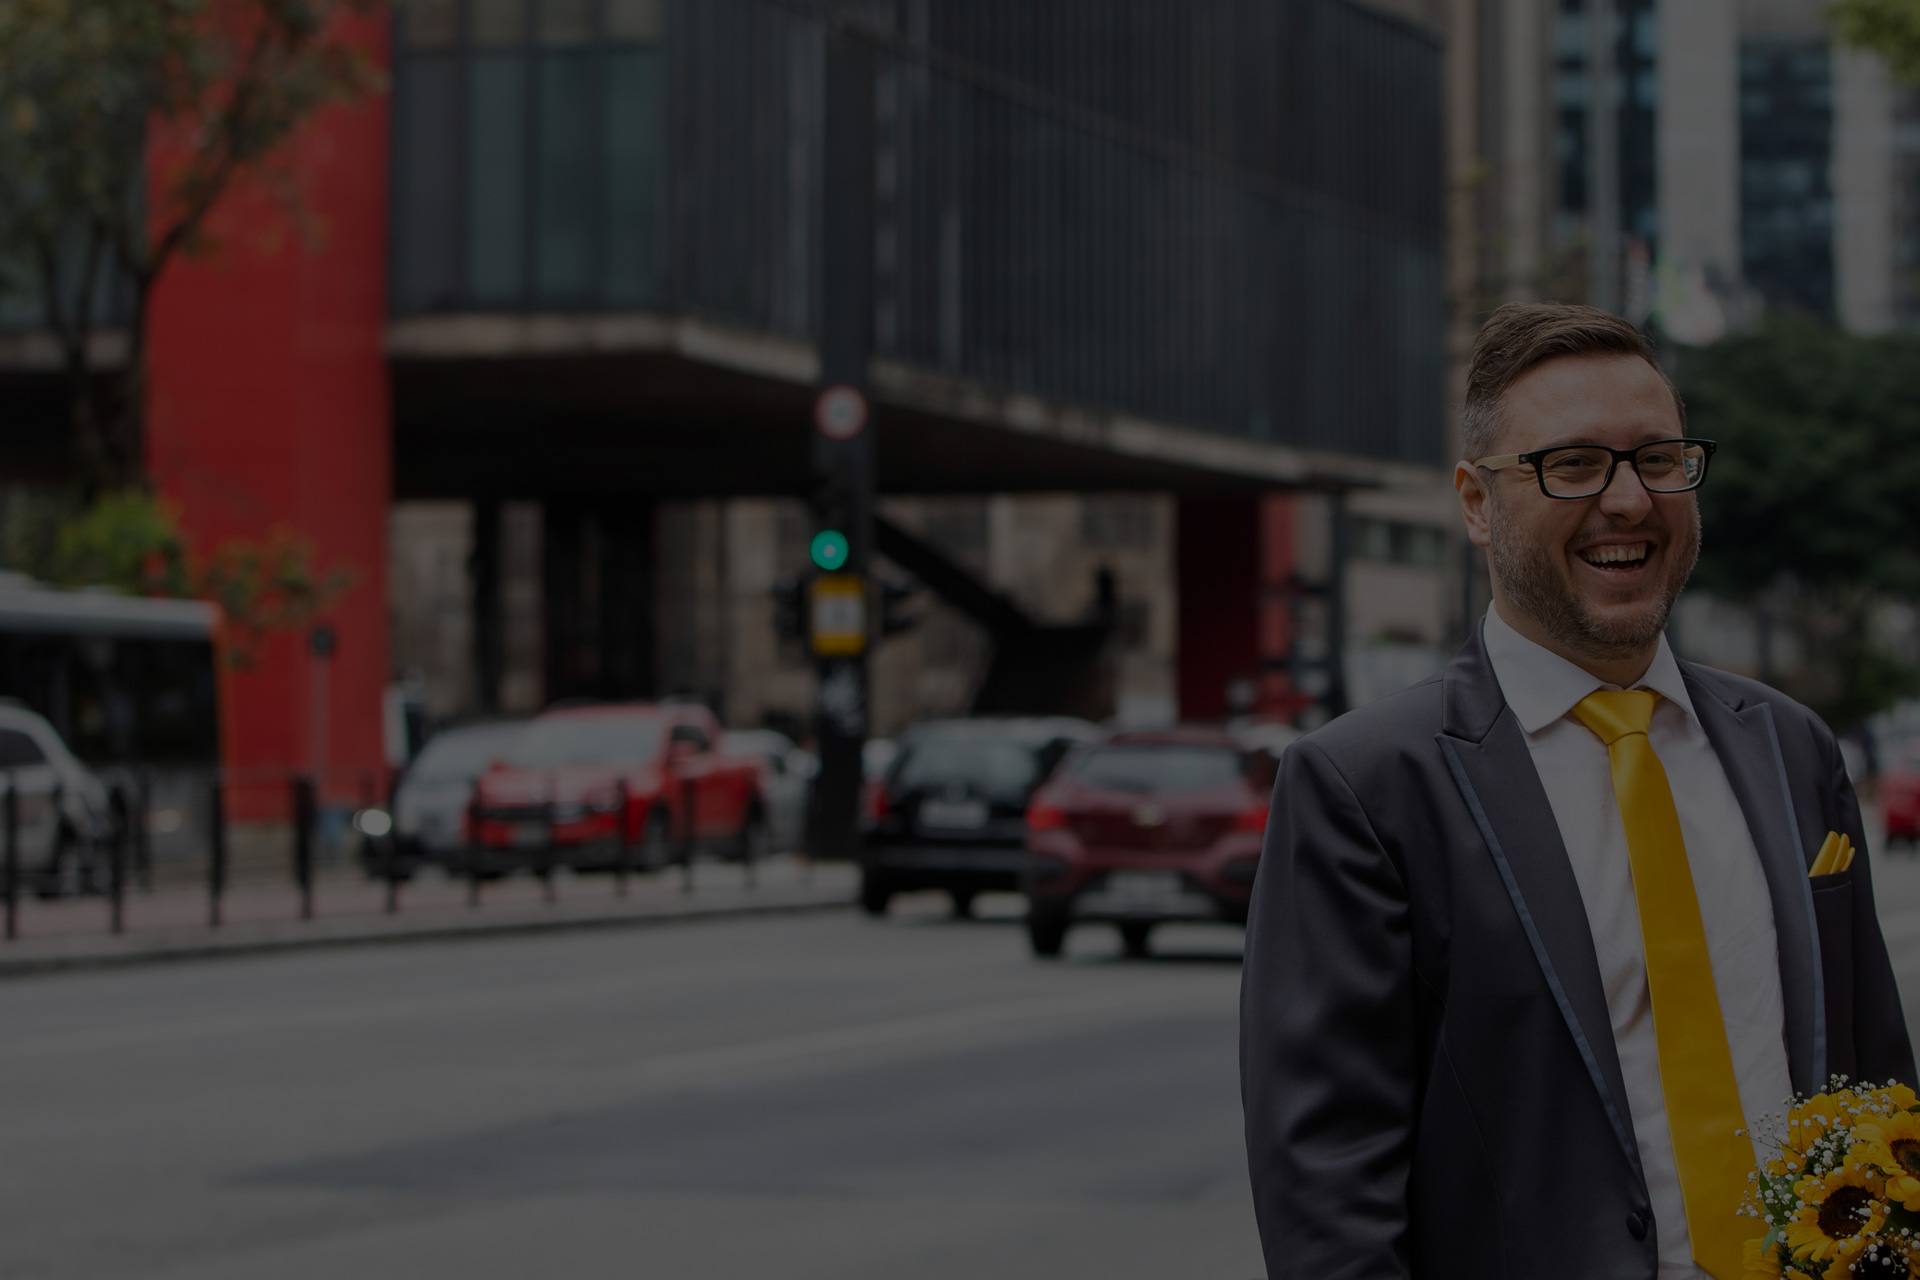
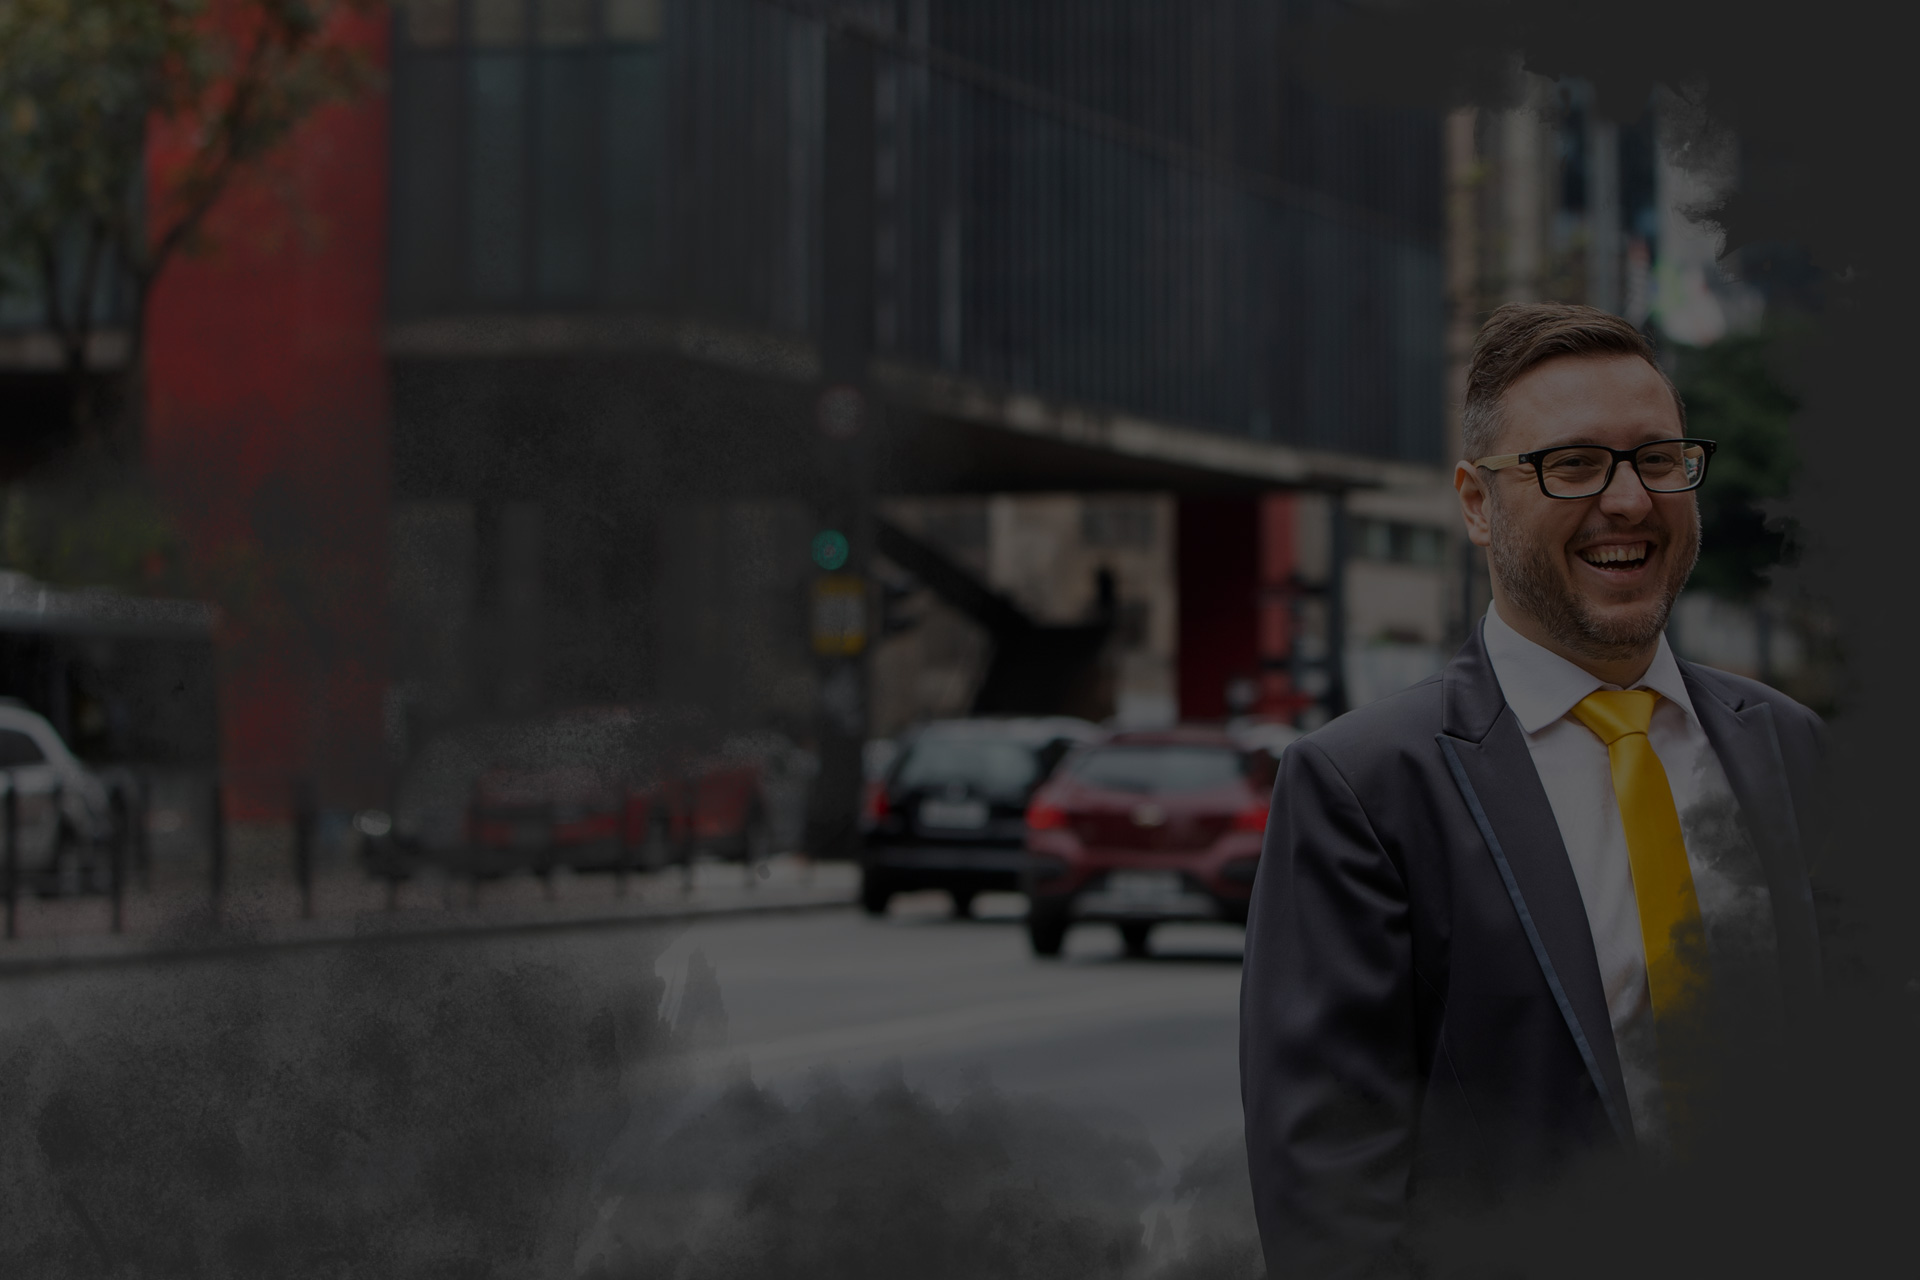
comita

diff --git a/eduardolevi/css/edu.css b/eduardolevi/css/edu.css
@@ -1,1 +1,1 @@
-@media only screen and (orientation:portrait){body{height:100vw;-webkit-transform:rotate(90deg);-ms-transform:rotate(90deg);transform:rotate(90deg)}}html{background-color:#222;scroll-behavior:smooth;-webkit-overflow-scrolling:touch}a,button{cursor:pointer}body{background-color:#222;height:100vw;overflow-x:visible;overflow-y:hidden;display:-webkit-box;display:-ms-flexbox;display:flex;-webkit-box-align:left;-ms-flex-align:left;align-items:left;margin:0;padding:0}.nav-bottom{width:100%;position:fixed;bottom:0;z-index:9999;display:-webkit-box;display:-ms-flexbox;display:flex;-webkit-box-align:center;-ms-flex-align:center;align-items:center;-webkit-box-pack:center;-ms-flex-pack:center;justify-content:center;height:50px}.nav-bottom button{border:1px solid transparent;background-color:transparent;font-weight:bolder;text-transform:uppercase;color:white;-webkit-transition:all ease-in-out 0.3s;-o-transition:all ease-in-out 0.3s;transition:all ease-in-out 0.3s}.nav-bottom button.active,.nav-bottom button:focus,.nav-bottom button:hover{outline:unset;-webkit-transition:all ease-in-out 0.3s;-o-transition:all ease-in-out 0.3s;transition:all ease-in-out 0.3s}.nav-bottom button#btHome.active,.nav-bottom button#btHome:focus,.nav-bottom button#btHome:hover{border:1px solid white;color:white}.nav-bottom button#btCareer.active,.nav-bottom button#btCareer:focus,.nav-bottom button#btCareer:hover{border:1px solid gold;color:gold}.nav-bottom button#btWorks.active,.nav-bottom button#btWorks:focus,.nav-bottom button#btWorks:hover{border:1px solid hotpink;color:hotpink}.nav-bottom button#btMe.active,.nav-bottom button#btMe:focus,.nav-bottom button#btMe:hover{border:1px solid cyan;color:cyan}section{min-width:auto;max-width:auto;height:100vh;max-height:100%;float:left;background-color:#222}section .container{display:-webkit-box;display:-ms-flexbox;display:flex;-webkit-box-orient:horizontal;-webkit-box-direction:normal;-ms-flex-direction:row;flex-direction:row;-ms-flex-wrap:nowrap;flex-wrap:nowrap;width:100%;padding:1.4em;gap:1em}section .container .col{-ms-flex-wrap:nowrap;flex-wrap:nowrap;-webkit-box-pack:justify;-ms-flex-pack:justify;justify-content:space-between;display:-webkit-box;display:-ms-flexbox;display:flex;-webkit-box-orient:vertical;-webkit-box-direction:normal;-ms-flex-direction:column;flex-direction:column;-ms-flex-preferred-size:90%;flex-basis:90%;-webkit-box-flex:1;-ms-flex:1;flex:1;width:45ch}section .container.titulo{height:140px}section h2{font-size:82px;margin:20px 0px 60px;position:relative}section h3{margin:0 0 15px}section p{font-size:1em;margin:0}#home{color:white;min-width:100vw}#home video{position:absolute;top:0;left:0;min-height:100%;min-width:100%;height:100%;width:100%}#home .moving-mouse-holder{margin:auto;position:fixed;bottom:20px;right:5px;width:170px}#home .moving-mouse-holder .mouse{width:26px;height:36px;position:relative;right:0;border-radius:18px;border:2px solid #444}#home .moving-mouse-holder .mouse-button{background-color:#444;width:4px;height:6px;border-radius:2px;position:absolute;top:7px;left:50%;margin:0 0 0 -2px;-webkit-animation:mouse-scroll 1s infinite alternate;animation:mouse-scroll 1s infinite alternate}#home .moving-mouse-holder .text{margin-top:-30px;margin-left:40px;color:#444;font-size:12px;line-height:1em}@-webkit-keyframes mouse-scroll{to{-webkit-transform:translate(0, 3px) scale(1, 0.4);transform:translate(0, 3px) scale(1, 0.4)}}@keyframes mouse-scroll{to{-webkit-transform:translate(0, 3px) scale(1, 0.4);transform:translate(0, 3px) scale(1, 0.4)}}#content1,#content1b{color:gold}#content2{color:hotpink}#content3{color:cyan}::-webkit-scrollbar{height:4px}::-webkit-scrollbar-track{background:#333}::-webkit-scrollbar-thumb{background:#444}::-webkit-scrollbar-thumb:hover{background:#555}#myVideo{position:absolute;bottom:0;top:0;right:0;width:100%;height:100%;background-size:100% 100%;background-color:black;background-image:;background-position:center center;background-size:contain;-o-object-fit:cover;object-fit:cover}
+@media only screen and (orientation:portrait){body{height:100vw;-webkit-transform:rotate(90deg);-ms-transform:rotate(90deg);transform:rotate(90deg)}}@font-face{font-family:'Comfortaa';font-style:normal;font-weight:300;font-display:swap;src:url(https://fonts.gstatic.com/s/comfortaa/v30/1Pt_g8LJRfWJmhDAuUsSQamb1W0lwk4S4TbMPrQ.ttf) format('truetype')}@font-face{font-family:'Comfortaa';font-style:normal;font-weight:400;font-display:swap;src:url(https://fonts.gstatic.com/s/comfortaa/v30/1Pt_g8LJRfWJmhDAuUsSQamb1W0lwk4S4WjMPrQ.ttf) format('truetype')}@font-face{font-family:'Comfortaa';font-style:normal;font-weight:500;font-display:swap;src:url(https://fonts.gstatic.com/s/comfortaa/v30/1Pt_g8LJRfWJmhDAuUsSQamb1W0lwk4S4VrMPrQ.ttf) format('truetype')}@font-face{font-family:'Comfortaa';font-style:normal;font-weight:600;font-display:swap;src:url(https://fonts.gstatic.com/s/comfortaa/v30/1Pt_g8LJRfWJmhDAuUsSQamb1W0lwk4S4bbLPrQ.ttf) format('truetype')}@font-face{font-family:'Comfortaa';font-style:normal;font-weight:700;font-display:swap;src:url(https://fonts.gstatic.com/s/comfortaa/v30/1Pt_g8LJRfWJmhDAuUsSQamb1W0lwk4S4Y_LPrQ.ttf) format('truetype')}html{background-color:#222;scroll-behavior:smooth;-webkit-overflow-scrolling:touch;font-family:'Comfortaa', cursive}a,button{cursor:pointer}body{background-color:#222;height:100vw;overflow-x:visible;overflow-y:hidden;display:-webkit-box;display:-ms-flexbox;display:flex;-webkit-box-align:left;-ms-flex-align:left;align-items:left;margin:0;padding:0;font-family:'Comfortaa', cursive}.nav-bottom{width:100%;position:fixed;bottom:0;z-index:9999;display:-webkit-box;display:-ms-flexbox;display:flex;-webkit-box-align:center;-ms-flex-align:center;align-items:center;-webkit-box-pack:center;-ms-flex-pack:center;justify-content:center;height:50px}.nav-bottom button{border:1px solid transparent;background-color:transparent;font-weight:bolder;text-transform:uppercase;color:white;-webkit-transition:all ease-in-out 0.3s;-o-transition:all ease-in-out 0.3s;transition:all ease-in-out 0.3s}.nav-bottom button.active,.nav-bottom button:focus,.nav-bottom button:hover{outline:unset;-webkit-transition:all ease-in-out 0.3s;-o-transition:all ease-in-out 0.3s;transition:all ease-in-out 0.3s}.nav-bottom button#btCareer.active,.nav-bottom button#btCareer:focus,.nav-bottom button#btCareer:hover,.nav-bottom button#btHome.active,.nav-bottom button#btHome:focus,.nav-bottom button#btHome:hover,.nav-bottom button#btMe.active,.nav-bottom button#btMe:focus,.nav-bottom button#btMe:hover,.nav-bottom button#btWorks.active,.nav-bottom button#btWorks:focus,.nav-bottom button#btWorks:hover{color:#f1c600;background-color:#434343}section{min-width:auto;max-width:auto;height:100vh;max-height:100%;float:left;background-color:#222}section .container{display:-webkit-box;display:-ms-flexbox;display:flex;-webkit-box-orient:horizontal;-webkit-box-direction:normal;-ms-flex-direction:row;flex-direction:row;-ms-flex-wrap:nowrap;flex-wrap:nowrap;width:100%;padding:1.4em;gap:1em}section .container .col{-ms-flex-wrap:nowrap;flex-wrap:nowrap;-webkit-box-pack:justify;-ms-flex-pack:justify;justify-content:space-between;display:-webkit-box;display:-ms-flexbox;display:flex;-webkit-box-orient:vertical;-webkit-box-direction:normal;-ms-flex-direction:column;flex-direction:column;-ms-flex-preferred-size:90%;flex-basis:90%;-webkit-box-flex:1;-ms-flex:1;flex:1;width:45ch}section .container.titulo{height:140px}section h2{font-size:82px;margin:20px 0px 60px;position:relative}section h3{margin:0 0 15px}section p{font-size:1em;margin:0}#home{background:url('../imgs/bg-home.jpg') top / cover no-repeat;color:#f1c600;min-width:100vw}#home video{position:absolute;top:0;left:0;min-height:100%;min-width:100%}#home .moving-mouse-holder{margin:auto;position:fixed;bottom:20px;right:5px;width:170px}#home .moving-mouse-holder .mouse{width:26px;height:36px;position:relative;right:0;border-radius:18px;border:2px solid white}#home .moving-mouse-holder .mouse-button{background-color:white;width:4px;height:6px;border-radius:2px;position:absolute;top:7px;left:50%;margin:0 0 0 -2px;-webkit-animation:mouse-scroll 1s infinite alternate;animation:mouse-scroll 1s infinite alternate}#home .moving-mouse-holder .text{margin-top:-30px;margin-left:40px;font-size:12px;line-height:1em;color:white}@-webkit-keyframes mouse-scroll{to{-webkit-transform:translate(0, 3px) scale(1, 0.4);transform:translate(0, 3px) scale(1, 0.4)}}@keyframes mouse-scroll{to{-webkit-transform:translate(0, 3px) scale(1, 0.4);transform:translate(0, 3px) scale(1, 0.4)}}#content1,#content1b{background:url('../imgs/bg-2.jpg') top / cover no-repeat;color:#f1c600}::-webkit-scrollbar{height:4px}::-webkit-scrollbar-track{background:#333}::-webkit-scrollbar-thumb{background:#444}::-webkit-scrollbar-thumb:hover{background:#555}#myVideo{position:absolute;bottom:0;top:0;right:0;width:100%;height:100%;background-size:100% 100%;background-color:black;background-position:center center;background-size:contain;-o-object-fit:cover;object-fit:cover}

diff --git a/eduardolevi/index.html b/eduardolevi/index.html
@@ -25,22 +25,22 @@
 			<!-- <video id="Video" loop muted autoplay>
 				<source src="imgs/flowers.mp4" type="video/mp4">
 				<source src="imgs/flowers.webm" type="video/webm">
-			</video>	-->
+			</video>	 -->
 			<div class="container titulo">
 				<div class="col-xs-8">					
-					<h2>Hello, I'm<br> Eduardo Levi. <br>Welcome to<br> my portfolio.</h2>										
+					<h2>Hello!<br> I'm Eduardo Levi. <br><small>UX UI Front-End Designer.</small></h2>										
 				</div>
-				<!-- <div class="col-xs-4">					
+				<div class="">					
 					<div class="moving-mouse-holder">
 						<div class="mouse">
 						  <div class="mouse-button">&nbsp;</div>
 						</div>
-						<div class="text">GO WITH <br>THE FLOW ></div>
+						<div class="text">SCROLL DOWN <br>TO NAVIGATE ></div>
 					  </div>
-				</div> -->
+				</div>
 			</div>
 		</section>
-		<section id="content1">
+		<section id="content1">				
 			<div class="container titulo">
 				<div class="col-xs-12">
 					<h2>Career</h2>
@@ -49,45 +49,25 @@
 			<div class="container">
 				<div class="col">
 					<p>
-						I began my career in 2003, in the German multinational Henkel, where I was the web and digital designer responsible for the Loctite brand website, which passed through a huge website change in 2004. I joined a worldwide group designated to unify the Loctite website layout using a singular template powered by a multi-language CMS. I was sent to Los Angeles to the CMS course and after that, I was set to minister the same course in Brazil, Santiago (Chile) and Buenos Aires (Argentina). My efforts generated time and costs saving with the implementation in the whole region. I was the guy of other jobs such as motion graphics ads (using flash software), company’s online communications, hot-sites creation, email marketing designs, offline stuff, and even participated in huge events such as Formula 1 and many other international industrial fairs.
+						Have been responsible for several key projects in multinationals (where i was sent over to other countries to minister trainings), startups where I was able to innovate and put my creativity on challenging projects, and also had lead my own small business providing design consulting to other companies such as multinationals, Brazilian Financial Giants, and other companies. 
+
 					</p>
 				</div>
 				<div class="col">
 					<h3>
-						By that time I was pretty convinced all the design I made had to be orientated to the end user.
+						Over 17 years of extensive experience
 					</h3>
 					<p>
-						After almost 3 years I decided to face a new challenge at HSM, an Argentine-brazilian multinational company, specialized in management education. 
-I was the web designer responsible for the company’s events portal, e-commerce and email marketing creation and development. I was sent to Buenos Aires to deeply learn the brand’s guide which was another enriching experience. I successfully developed several online materials engaging new leads and selling lots of events’ tickets. Also joined the team for the events, and at the Expomanagement, a huge event, I sold more than 2 hundred thousand real (brazilian currency) in forthcoming events.
+						Have been responsible for several key projects in multinationals (where i was sent over to other countries to minister trainings), startups where I was able to innovate and put my creativity on challenging projects, and also had lead my own small business providing design consulting to other companies such as multinationals, Brazilian Financial Giants, and other companies. 
 					</p>
 				</div>
 				<div class="col">
 					<p>
-						After a year I decided to push myself into a totally new challenge, idealizing my own company, Web It Out. It was hard at the beginning, few clients, few jobs, little money... but it gave me a whole new experience in different areas besides designing. I improved my Customer service SEO, SEM, SMM skills, and finally put me in touch with the User experience Design.
-						Speaking of which, through Web It Out I had made some important UX and UI jobs. It is relevant to list the work for the Italian telecom TIM, where I idealized a sales department app, where salesman, supervisors and managers accessed a database detailing all the team works, prospects, leads, meetings, etc.
-					</p>
-				</div>
-				<div class="col">
-					<p>
-						I did a great job for Footstats, a soccer BI platform, where I designed and developed the front-end of the Footstats social media network for desktop, responsive and the app versions. 
+						Have been responsible for several key projects in multinationals (where i was sent over to other countries to minister trainings), startups where I was able to innovate and put my creativity on challenging projects, and also had lead my own small business providing design consulting to other companies such as multinationals, Brazilian Financial Giants, and other companies. 
 
-						Also produced a prototype for the Gover app, of Kontik, a B2B travel company.
 					</p>
 				</div>
-				<div class="col">					
-					<p>
-						Back in Brazil I had a large experience with Banks too.
-For the Rendimento bank, I was responsible for the customer journey map of the digital subscription application. Also made the responsive front-end version for that client.
-In Alfa Bank, I designed and developed (front end) for desktop and responsive versions of the personal credit website.
-At Safra Bank I set up the customer journey map, designed, prototyped and also developed the front-end for an online system for end-users.
-					</p>
-				</div>
-				<div class="col">
-					<p>
-						And it is worthy to cite I have done a prototype of a fashion app for C&A, a worldwide store.
-						In march 2019, I decided to idealize a new company, Olá! Alongside my wife, who is a graduate journalist, SEO and content marketing specialist.
-					</p>
-				</div>				
+						
 			</div>
 		</section>
 		<section id="content2">

diff --git a/eduardolevi/css/edu.less b/eduardolevi/css/edu.less
@@ -1,15 +1,21 @@
+// variáveis
+@gold:	#f1c600;
+@orange:#eb8f26;
+@gray:	#434343;
+//
 @media only screen and (orientation:portrait){
 	body {
 	  height: 100vw;
 	  transform: rotate(90deg);
 	}
   }
-
+  @import url('https://fonts.googleapis.com/css2?family=Comfortaa:wght@300;400;500;600;700&display=swap');
 html {
 	background-color: #222;
 	//scroll automatico
     scroll-behavior: smooth;
 	-webkit-overflow-scrolling: touch;	
+	font-family: 'Comfortaa', cursive;
 }
 a, button {
 	cursor: pointer;
@@ -23,6 +29,7 @@ body {
 	align-items: left;
 	margin:0;
 	padding: 0;
+	font-family: 'Comfortaa', cursive;
 }
 .nav-bottom {
 	width: 100%;
@@ -44,30 +51,31 @@ body {
 			outline: unset;
 			transition: all ease-in-out .3s;
 		}
-		&#btHome {
+		&#btHome, &#btCareer, &#btWorks,&#btMe {
 			&:hover, &:focus, &.active {
-				border: 1px solid white;
-				color: white;				
+				// border: 1px solid white;
+				color: @gold;
+				background-color: @gray;				
 			}
 		}
-		&#btCareer {
-			&:hover, &:focus, &.active {
-				border: 1px solid gold;
-				color: gold;				
-			}
-		}
-		&#btWorks {
-			&:hover, &:focus, &.active {
-				border: 1px solid hotpink;
-				color: hotpink;	
-			}
-		}
-		&#btMe {
-			&:hover, &:focus, &.active {
-				border: 1px solid cyan;
-				color: cyan;			
-			}
-		}
+		// &#btCareer {
+		// 	&:hover, &:focus, &.active {
+		// 		border: 1px solid @gold;
+		// 		color: @gold;				
+		// 	}
+		// }
+		// &#btWorks {
+		// 	&:hover, &:focus, &.active {
+		// 		border: 1px solid hotpink;
+		// 		color: hotpink;	
+		// 	}
+		// }
+		// &#btMe {
+		// 	&:hover, &:focus, &.active {
+		// 		border: 1px solid cyan;
+		// 		color: cyan;			
+		// 	}
+		// }
 	}
 }
 .container {
@@ -80,7 +88,7 @@ section {
 	max-height: 100%;
 	float: left;	
 		
-	// color: gold;
+	// color: @gold;
 	background-color: #222;
 	.container {
 		display: flex;
@@ -120,17 +128,15 @@ section {
 	
 }
 #home {
-	// background: url('../imgs/bg.jpg') top/contain no-repeat;
-	color: white;
+	background: url('../imgs/bg-home.jpg') top/cover no-repeat;
+	color: @gold;
 	min-width: 100vw;
 	video {
 		position: absolute;
 		top:0;
 		left:0;
 		min-height: 100%;
-		min-width: 100%;
-		height: 100%;
-		width: 100%;		
+		min-width: 100%;			
 	}
 	.moving-mouse-holder {
 		margin: auto;
@@ -145,10 +151,10 @@ section {
 			position: relative;
 			right: 0;
 			border-radius: 18px;
-			border: 2px solid #444;
+			border: 2px solid white;
 		  }
 		  .mouse-button {
-			background-color: #444;
+			background-color: white;
 			width: 4px;
 			height: 6px;
 			border-radius: 2px;
@@ -161,9 +167,9 @@ section {
 		  .text {
 			margin-top: -30px;
 			margin-left: 40px;
-			color: #444;
 			font-size: 12px;
 			line-height: 1em;
+			color: white;
 		  }
 		  @keyframes mouse-scroll {
 			to {
@@ -174,18 +180,27 @@ section {
 }
 #content1, #content1b {
 	// background-color:brown;
-	color: gold;
+	background: url('../imgs/bg-2.jpg') top/cover no-repeat;
+	color: @gold;
+	// position: relative;
+	// video {
+	// 	position: absolute;
+	// 	top:0;
+	// 	left:0;
+	// 	min-height: 100%;
+	// 	min-width: 100%;			
+	// }
 }
 #content2 {
-	// background-color:gold;
-	color: hotpink;
+	// background-color:@gold;
+	// color: hotpink;
 	.work {
 		
 	}
 }
 #content3 {
 	// background-color:purple;
-	color:cyan;
+	// color:cyan;
 }
 
 //ScrollBar 
@@ -217,7 +232,7 @@ section {
 	height: 100%;
 	background-size: 100% 100%;
 	 background-color: black; /* in case the video doesn't fit the whole page*/
-	  background-image: /* our video */;
+	//   background-image: ;
 	  background-position: center center;
 	  background-size: contain;
 	   object-fit: cover; /*cover video background */
